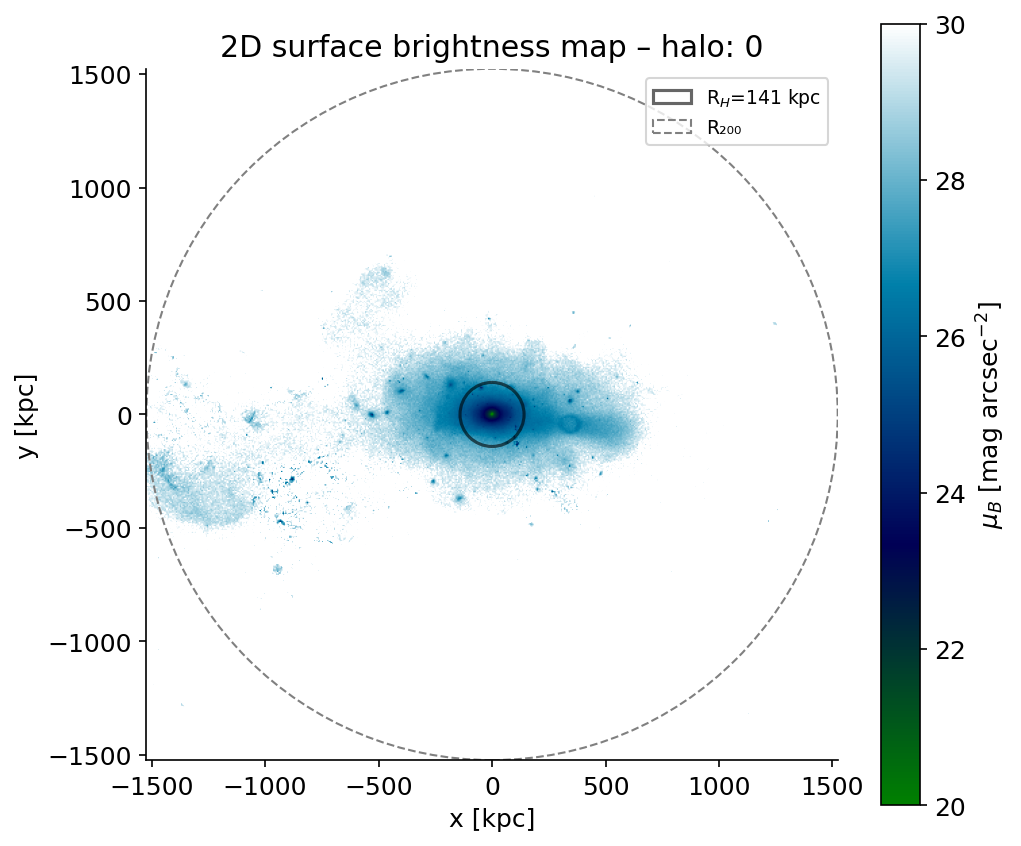
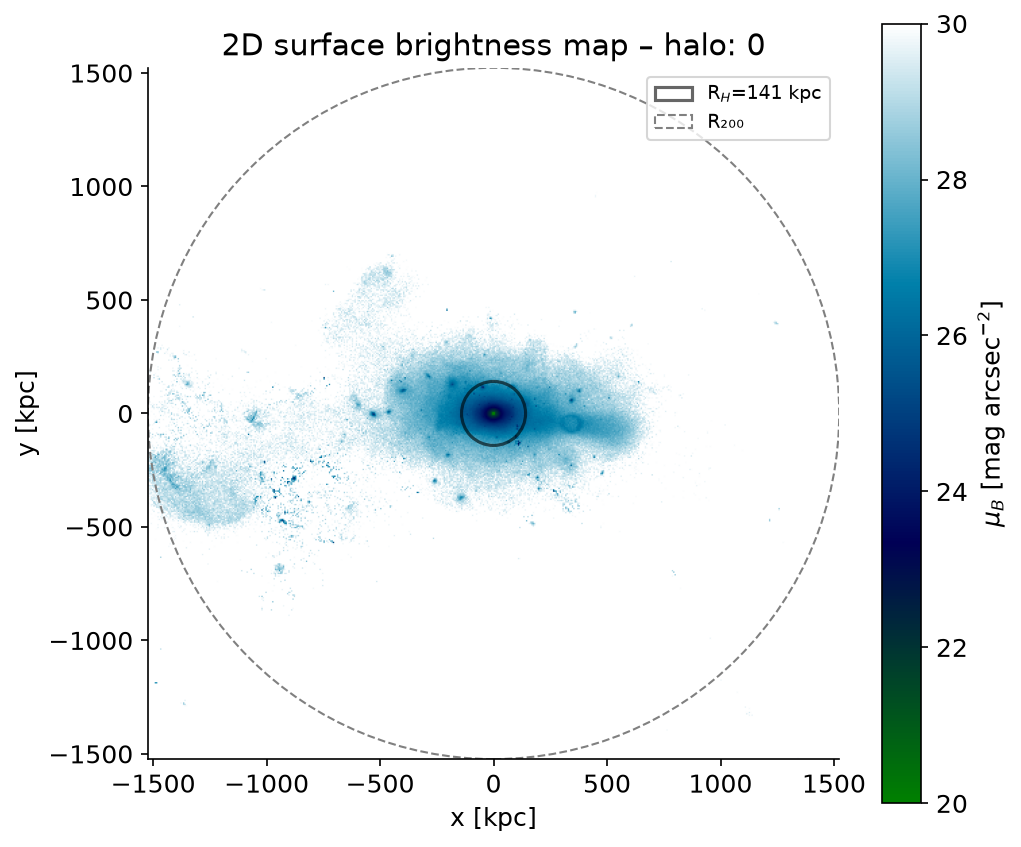
revisar documentacion de funciones, debe estar en banda B que si esta,. pero dicen banda r xdxdx [

diff --git a/original_shift_code/Catalogue.py b/original_shift_code/Catalogue.py
@@ -387,7 +387,7 @@ def comp_Reduced_Inertia_tensor(particles, SubhaloPos, Header, DistanceLIM):
 #    l=0
 #    Dist= Distance_3D(particles['Coordinates'],SubhaloCM, Header['BoxSize'])
 #    if l=0:
-#        IDSP=np.linalg.norm(Dist,axis=1)<=np.PINF
+#        IDSP=np.linalg.norm(Dist,axis=1)<=np.inf
 #    else:
 #        "compute the IDS"
 #        pass
@@ -425,7 +425,7 @@ def mu(xe, xH=0.76, mp=1.6726E-24):
     return 4/(1+3*xH+4*xH*xe)*mp
 
 
-def compute_mass_gas_temp_limits(masses, temp, temp_min=0, temp_max=np.PINF):
+def compute_mass_gas_temp_limits(masses, temp, temp_min=0, temp_max=np.inf):
     ids_fits_temp=np.logical_and(temp>=temp_min, temp<temp_max)
     return np.sum(masses[ids_fits_temp])
 
@@ -442,7 +442,7 @@ def compute_mass_gas_temp(masses, temperature):
     return np.array([HOTGAS, WARMGAS, COOLGAS, COLDGAS, HOTGAS+WARMGAS+COOLGAS+COLDGAS])
 
 #######Based on Torrey2017
-def compute_mass_gas_temp_limitsT2017(masses, temp, density, temp_min=0, temp_max=np.PINF, density_min=np.NINF, density_max=np.PINF):
+def compute_mass_gas_temp_limitsT2017(masses, temp, density, temp_min=0, temp_max=np.inf, density_min=-np.inf, density_max=np.inf):
     ids_fits_temp=np.logical_and(np.logical_and(np.logical_and(temp>=temp_min, temp<temp_max), density>=density_min), density<density_max)
     return np.sum(masses[ids_fits_temp])
 